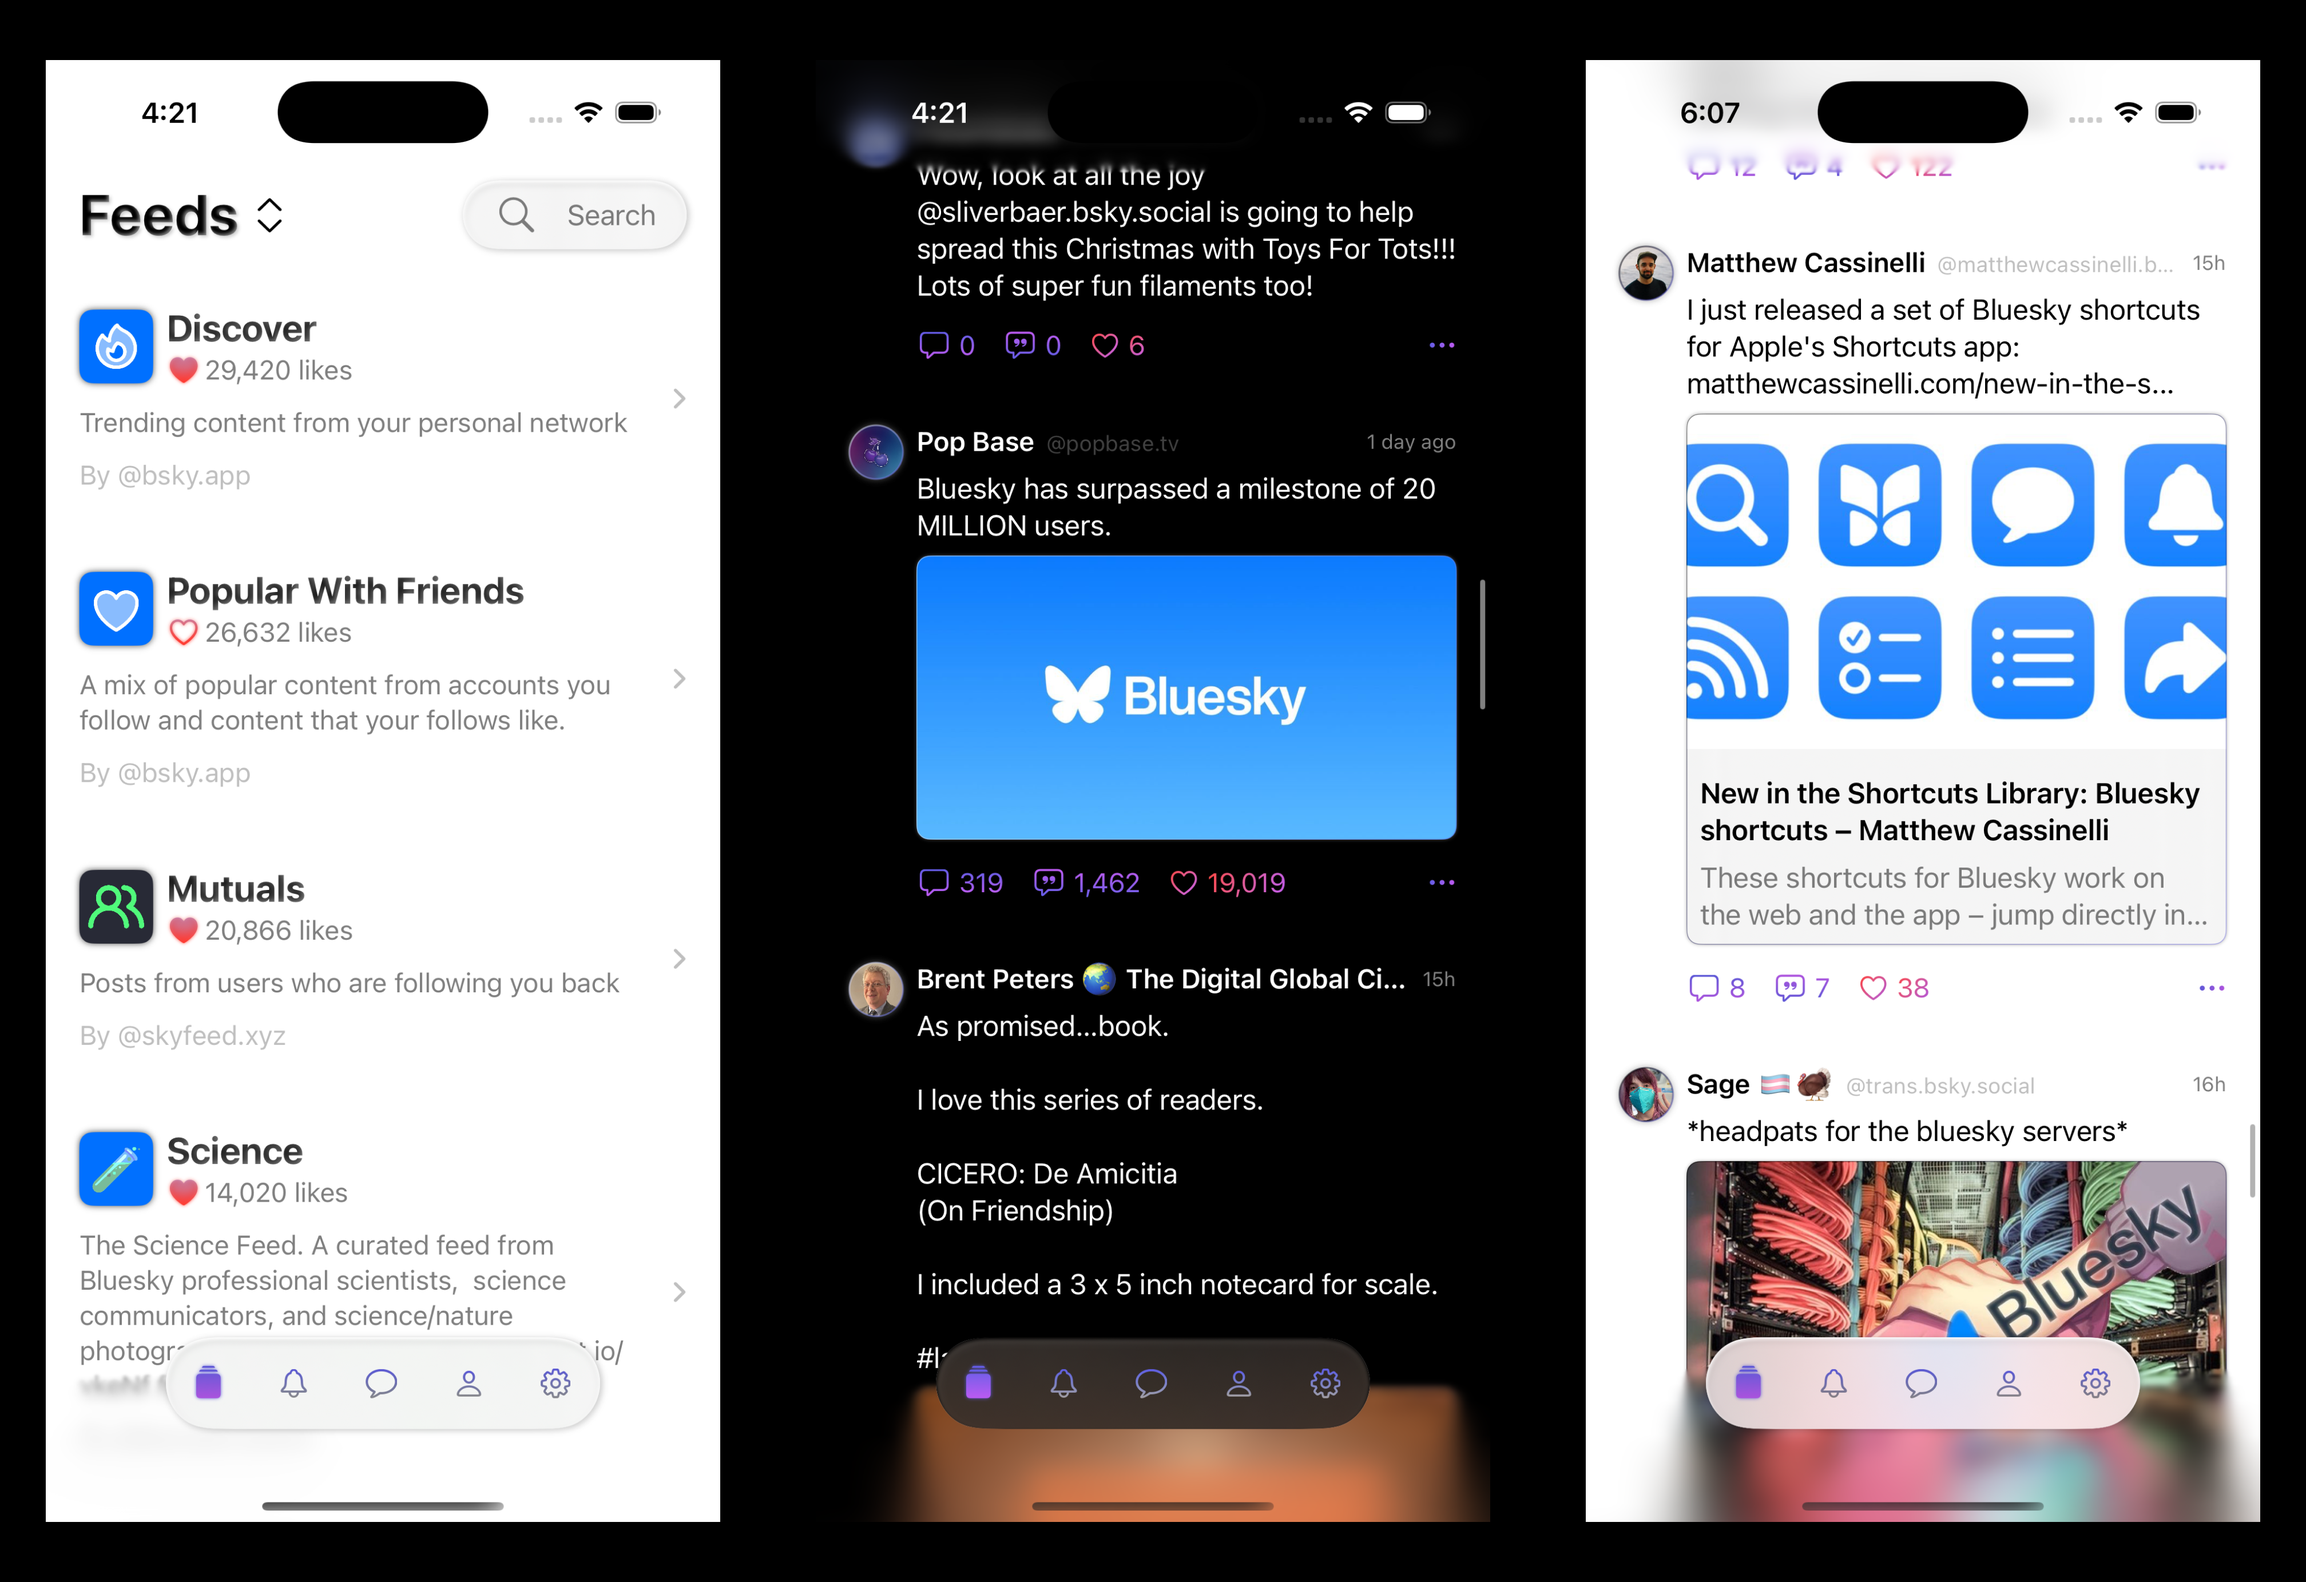
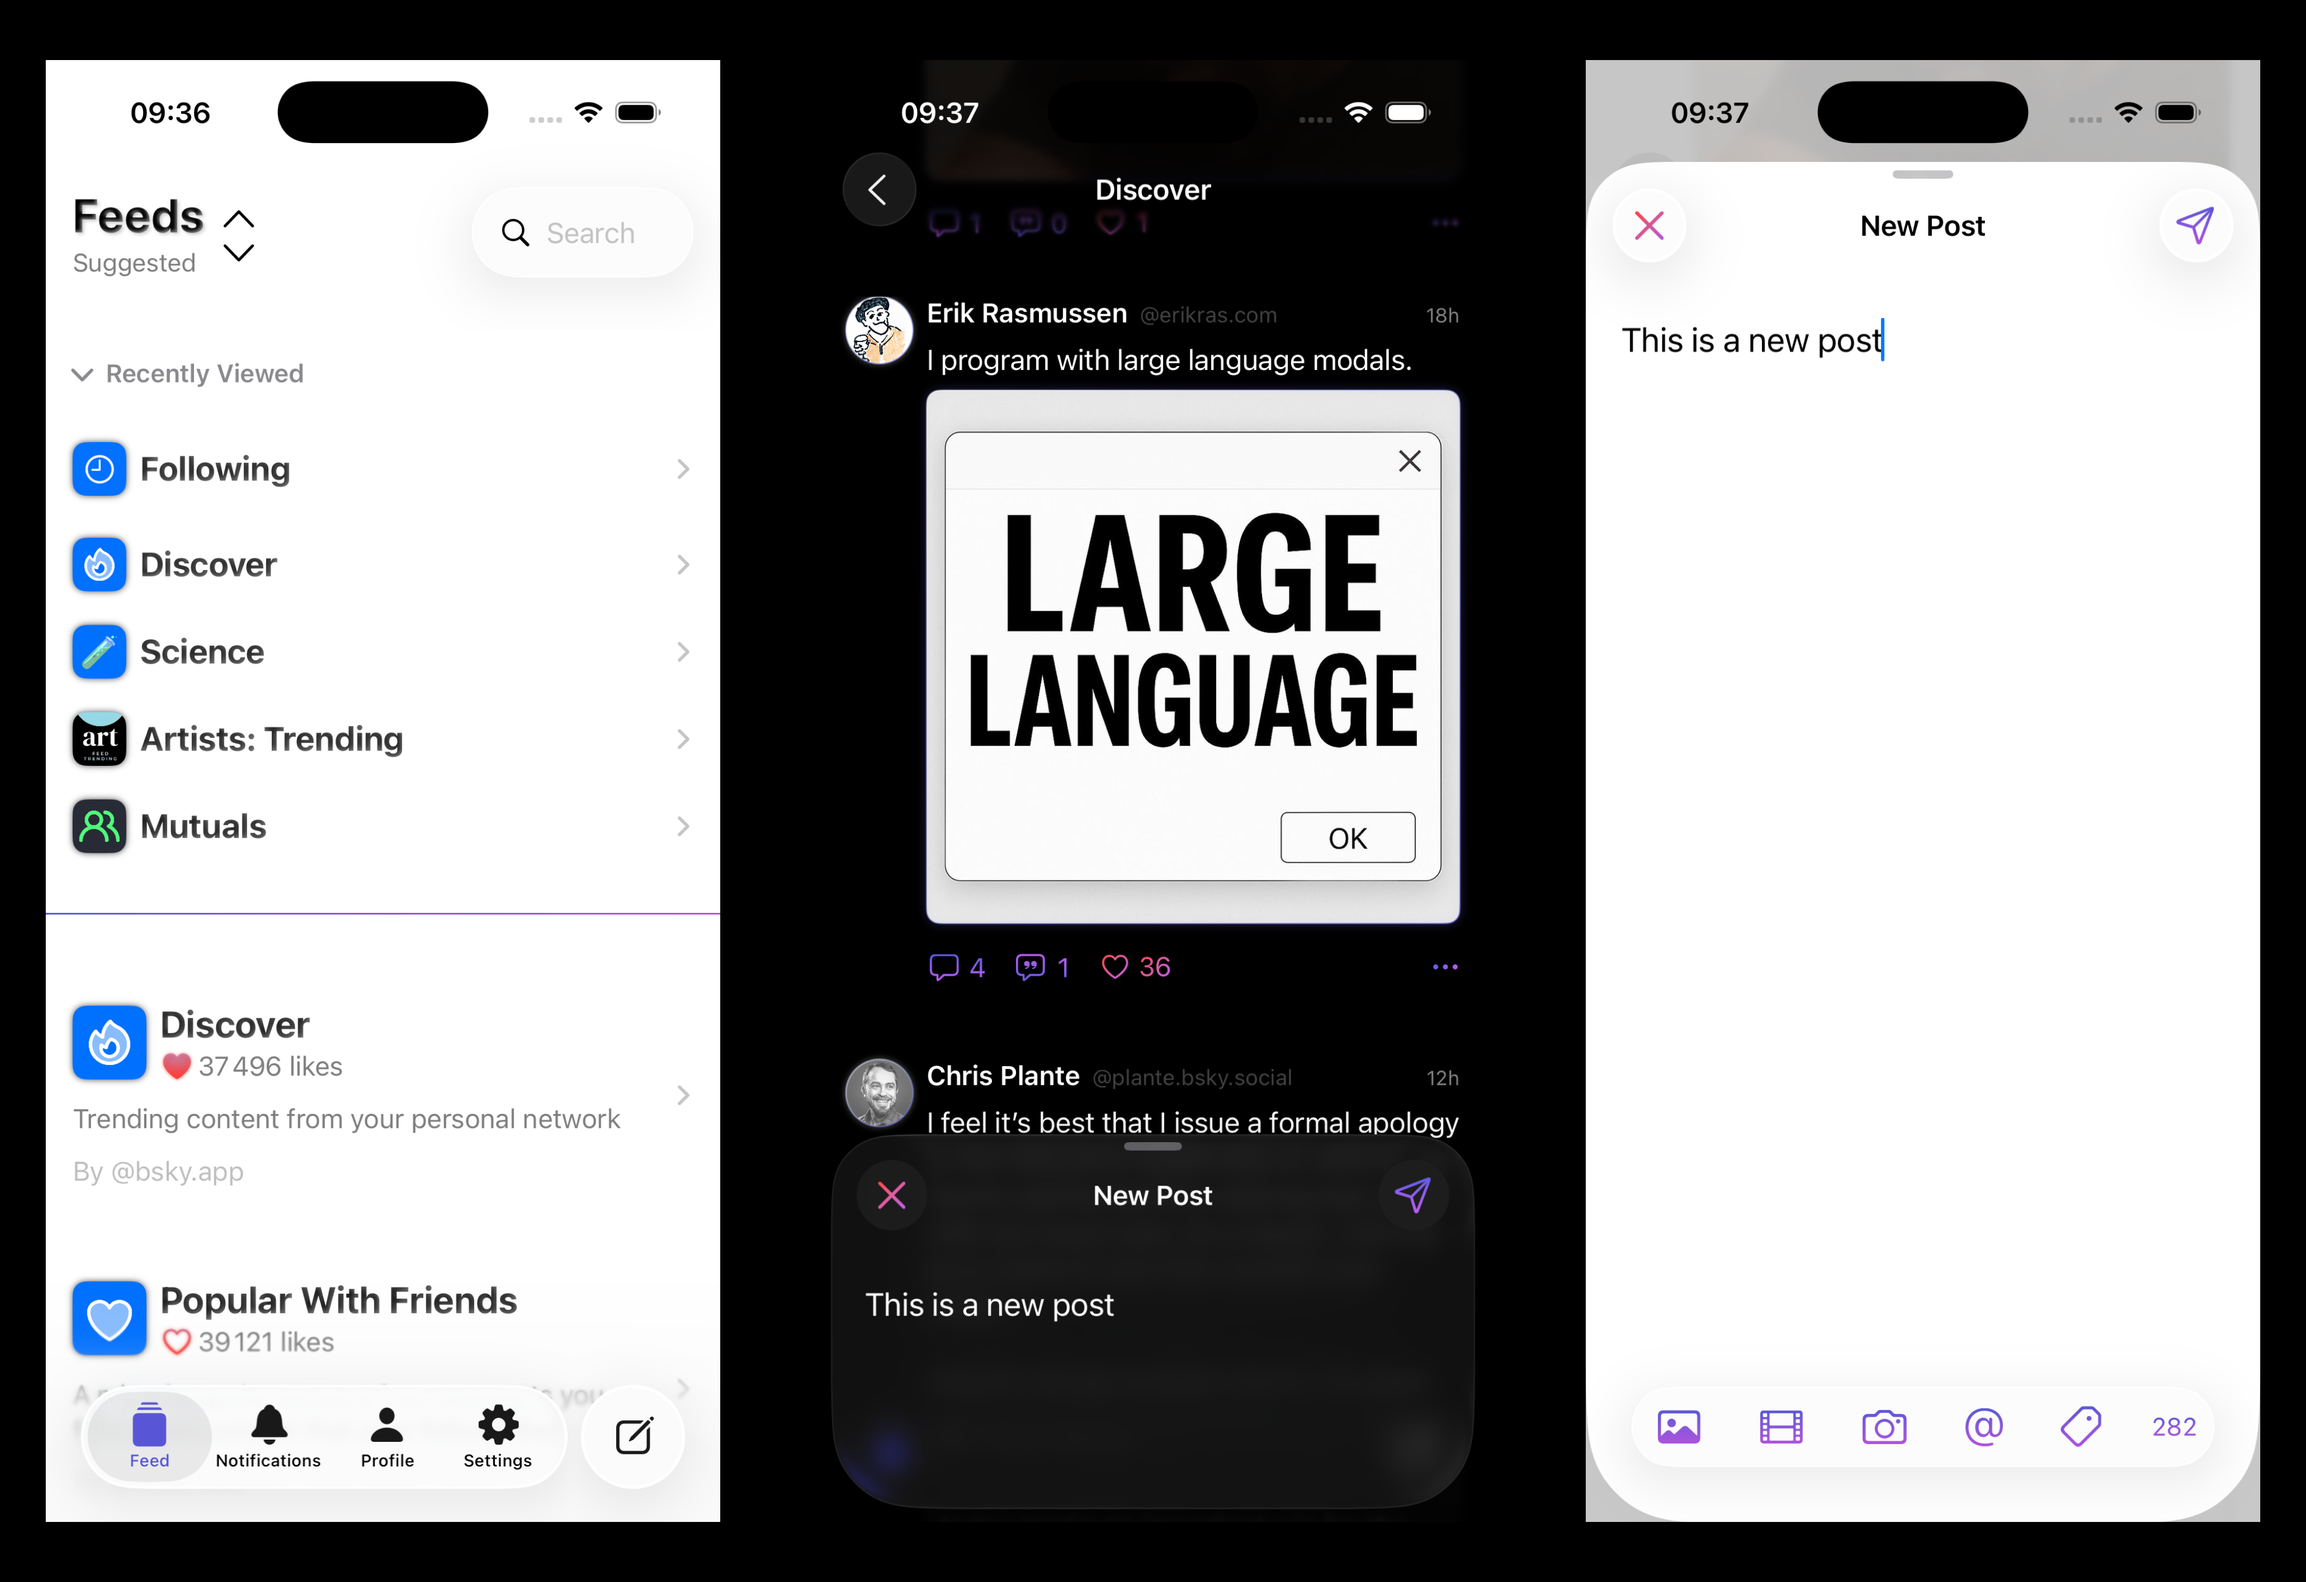
Even better iOS 26 supports

diff --git a/Packages/Features/Sources/FeedUI/List/FeedsListSearchField.swift b/Packages/Features/Sources/FeedUI/List/FeedsListSearchField.swift
@@ -1,4 +1,5 @@
 import SwiftUI
+import DesignSystem
 
 public struct FeedsListSearchField: View {
 
@@ -17,30 +18,32 @@ public struct FeedsListSearchField: View {
   }
 
   public var body: some View {
-    HStack {
+    GlassEffectContainer {
       HStack {
-        Image(systemName: "magnifyingglass")
-        TextField("Search", text: $searchText)
-          .focused(isSearchFocused)
-          .allowsHitTesting(isInSearch)
-      }
-      .frame(maxWidth: isInSearch ? .infinity : 100)
-      .padding()
-      .glassEffect(in: Capsule())
-      
-      if isInSearch {
-        Button {
-          withAnimation {
-            isInSearch.toggle()
-            isSearchFocused.wrappedValue = false
-            searchText = ""
-          }
-        } label: {
-          Image(systemName: "xmark")
-            .frame(width: 50, height: 50)
-            .glassEffect(in: Circle())
+        HStack {
+          Image(systemName: "magnifyingglass")
+          TextField("Search", text: $searchText)
+            .focused(isSearchFocused)
+            .allowsHitTesting(isInSearch)
         }
-        .transition(.push(from: .leading).combined(with: .scale).combined(with: .opacity))
+        .frame(maxWidth: isInSearch ? .infinity : 100)
+        .padding()
+        .glassEffect(in: Capsule())
+        
+        if isInSearch {
+          Button {
+            withAnimation {
+              isInSearch.toggle()
+              isSearchFocused.wrappedValue = false
+              searchText = ""
+            }
+          } label: {
+            Image(systemName: "xmark")
+              .frame(width: 50, height: 50)
+              .foregroundStyle(.redPurple)
+              .glassEffect(in: Circle())
+          }
+        }
       }
     }
   }

diff --git a/Packages/Features/Sources/ComposerUI/ComposerView.swift b/Packages/Features/Sources/ComposerUI/ComposerView.swift
@@ -6,30 +6,46 @@ import SwiftUI
 public struct ComposerView: View {
   @Environment(BSkyClient.self) private var client
   @Environment(\.dismiss) private var dismiss
+  
+  @State var presentationDetent: PresentationDetent = .large
 
   @State private var text: String = ""
   @State private var sendState: ComposerSendState = .idle
 
   let mode: ComposerMode
+  
+  private var title: String {
+    switch mode {
+    case .newPost:
+      return "New Post"
+    case .reply(let post):
+      return "Reply to \(post.author.displayName ?? post.author.handle)"
+    }
+  }
+
 
   public init(mode: ComposerMode) {
     self.mode = mode
   }
 
   public var body: some View {
-    VStack(spacing: 0) {
-      ComposerHeaderView(mode: mode, sendState: $sendState, onSend: sendPost)
-
-      Divider()
-
+    NavigationStack {
       ComposerTextEditorView(text: $text, sendState: sendState)
+        .navigationTitle(title)
+        .navigationBarTitleDisplayMode(.inline)
+        .toolbar {
+          ComposerToolbarView(
+            text: $text,
+            sendState: $sendState
+          )
+          ComposerHeaderView(
+            sendState: $sendState,
+            onSend: sendPost
+          )
+       }
     }
-    .toolbar {
-      ComposerToolbarView(
-        text: $text,
-        sendState: $sendState
-      )
-    }
+    .presentationDetents([.height(200), .large], selection: $presentationDetent)
+    .presentationBackgroundInteraction(.enabled)
   }
 }
 

diff --git a/Packages/Features/Sources/ComposerUI/ComposerHeaderView.swift b/Packages/Features/Sources/ComposerUI/ComposerHeaderView.swift
@@ -2,34 +2,24 @@ import DesignSystem
 import Models
 import SwiftUI
 
-struct ComposerHeaderView: View {
-  let mode: ComposerMode
+struct ComposerHeaderView: ToolbarContent {
+  @Environment(\.dismiss) var dismiss
   @Binding var sendState: ComposerSendState
   let onSend: () async -> Void
 
-  private var title: String {
-    switch mode {
-    case .newPost:
-      return "New Post"
-    case .reply(let post):
-      return "Reply to \(post.author.displayName ?? post.author.handle)"
-    }
-  }
-
-  var body: some View {
-    HStack(alignment: .center) {
-      HeaderView(
-        title: title,
-        type: .modal,
-        fontSize: .largeTitle,
-        alignment: .leading
-      )
-      Spacer()
-
+  var body: some ToolbarContent {    ToolbarItem(placement: .topBarTrailing) {
       ComposerSendButton(
         sendState: sendState,
         onSend: onSend
       )
+    }
+    ToolbarItem(placement: .topBarLeading) {
+      Button {
+        dismiss()
+      } label: {
+        Image(systemName: "xmark")
+          .foregroundStyle(.redPurple)
+      }
     }
   }
 }

diff --git a/Packages/Features/Sources/ComposerUI/ComposerSendButton.swift b/Packages/Features/Sources/ComposerUI/ComposerSendButton.swift
@@ -19,22 +19,14 @@ struct ComposerSendButton: View {
       switch sendState {
       case .loading:
         ProgressView()
-          .padding()
       case .error:
         Image(systemName: "exclamationmark.triangle")
-          .font(.body)
-          .padding(.all, 12)
           .foregroundStyle(.red)
       default:
         Image(systemName: "paperplane")
-          .font(.body)
-          .padding(.all, 12)
           .foregroundStyle(.indigoPurple)
       }
     }
-    .buttonStyle(.glass)
-    .foregroundColor(.primary)
-    .padding(.trailing, 16)
     .alert("Error", isPresented: $showError) {
       Button("OK", role: .cancel) {
         showError = false
